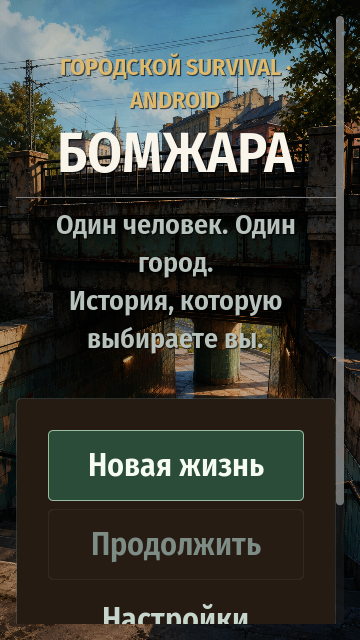
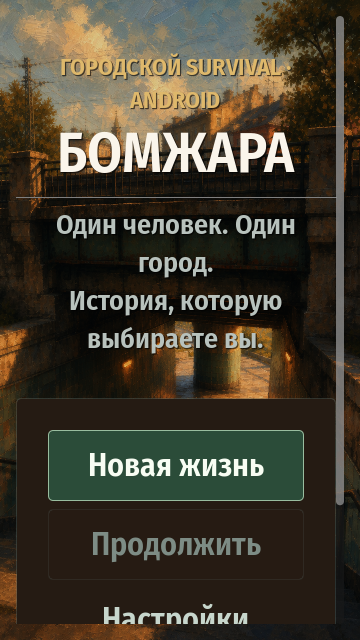
art: convert production environments to C2 style

diff --git a/docs/art_direction/ENVIRONMENT_STYLE.md b/docs/art_direction/ENVIRONMENT_STYLE.md
@@ -1,0 +1,81 @@
+# Производственный стандарт окружений C2
+
+Статус: **обязателен для всех новых и перерабатываемых игровых окружений**
+
+Обновлено: 26 июля 2026 года
+
+## 1. Художественный язык
+
+Базовый стиль окружений «Бомжары» — **C2: тёплая мягкая импрессионистическая живопись**. Это эстетичный законченный рисунок широкими живописными массами, а не фотография с blur-фильтром.
+
+- место узнаётся по камере, силуэту, свету, крупным объектам и цветовым массам примерно на ширине `120 px`;
+- кладка, провода, лица, листья, надписи и мелкий реквизит растворяются в мазках и не образуют высокочастотный шум;
+- края в основном мягкие, но крупные границы проходов, препятствий и важных ориентиров остаются различимыми;
+- освещённые поверхности и широкие отражения получают сдержанное медово-охристое тепло;
+- небо, даль и тени сохраняют прохладный серо-голубой противовес, зелень остаётся приглушённой;
+- естественные погода, время суток и тональная иерархия исходной локации сохраняются.
+
+Эталон материала: [вокзальная площадь C2](street_style_tests/station_square_c2_warm_impressionism.png). Эталон передаёт только мазок, мягкость, плотность деталей и температурный баланс. Его архитектура, транспорт, часы и композиция не переносятся в другие места.
+
+## 2. Что запрещено
+
+- фотореализм, HDR, sharpening, высокий микроконтраст и резкие контуры по всему кадру;
+- глобальная оранжевая заливка, сепия, жёлтое небо и обязательный эффект заката;
+- одинаковая температура, погода или экспозиция всех районов;
+- копирование объектов и композиции стилевого эталона;
+- новые крупные объекты или потеря ориентиров исходной локации без продуктовой причины;
+- читаемый текст, интерфейс, логотипы, флаги, товарные знаки и водяные знаки внутри растра;
+- современные объекты, не соответствующие эпохе и состоянию мира;
+- отдельные цветовые копии ради психики, погоды, времени суток или стадии мира.
+
+## 3. Композиция и игровые ограничения
+
+При style-transfer исходный production-фон является строгим источником камеры и содержания. Сохраняются перспектива, кадрирование, крупные ориентиры, открытые пространства, расположение объектов и идентичность места. Стилевой эталон влияет только на материал изображения.
+
+Для поисковых зон дополнительно обязательны:
+
+- исходная перспектива сверху под углом и геометрия уровня;
+- читаемость проходимого пола, стен, входов, препятствий и интерактивных силуэтов;
+- разделение этих областей крупными тональными границами, а не добавлением микродеталей;
+- отсутствие декоративного хлама, который можно принять за интерактивный объект или проход.
+
+Психика, время, погода и наблюдаемые изменения `WorldState` собираются в Godot поверх одного базового фона. Они не требуют повторной генерации той же сцены. UI, текст и смысловые пиктограммы находятся на отдельном резком слое и не получают живописный post-process.
+
+## 4. Размеры и исходники
+
+Текущий портретный master окружения — PNG `941×1672`. Поисковой двор сохраняет авторский landscape master `1649×954`, потому что его растр задаёт игровую геометрию. Изменять размеры при стилевом преобразовании запрещено; Android-варианты позднее экспортируются из master-файлов без перерисовки композиции.
+
+| Production-ассет | Назначение |
+|---|---|
+| `assets/backgrounds/riverside_underpass_day.png` | подземный переход |
+| `assets/backgrounds/riverside_market_day.png` | рынок |
+| `assets/backgrounds/riverside_station_square_day.png` | вокзальная площадь |
+| `assets/backgrounds/riverside_recycling_point_day.png` | пункт вторсырья |
+| `assets/backgrounds/riverside_clinic_yard_day.png` | двор поликлиники |
+| `assets/backgrounds/riverside_embankment_day.png` | набережная |
+| `assets/search/underpass_service_yard_v1.png` | игровая зона поиска |
+
+## 5. Производственный prompt
+
+Инструмент: встроенный `image_gen`, режим редактирования `style-transfer`. Для каждого нового места выполняется отдельная генерация с двумя референсами: `Image 1` — целевой фон и строгая композиция; `Image 2` — выбранный C2 и только стилевой эталон.
+
+Обязательная общая часть prompt:
+
+> Repaint the exact location from Image 1 in Image 2's soft warm impressionistic language. Image 1 is the strict composition and identity reference. Image 2 is style-only: do not copy its station, buses, clock, objects or layout. Create a production mobile-game environment with broad painterly masses, gentle atmospheric depth, diffuse edges and very low high-frequency detail; an aesthetically finished painting, not a blurred photo. Preserve Image 1 camera, perspective, major landmarks, open and walkable areas, object placement, local identity, weather and value hierarchy. Make the place recognizable at roughly 120 pixels wide; dissolve masonry, wires, faces, labels, clutter and small props into painterly marks. Use restrained honey-ochre and muted amber in lit surfaces and broad reflections, cool gray-blue in sky, distance and shadows, and muted natural greens. No global orange cast, sepia, yellow sky, oversaturation, line art, crisp contours, photorealism, HDR, sharpening, text, UI, logos, flags, trademarks, watermark, modern objects, new objects or missing major landmarks. Preserve the source dimensions and aspect ratio.
+
+После общей части добавляется краткий список обязательных ориентиров конкретной локации. Для поисковой зоны явно перечисляются все стены, входы, препятствия и опорные объекты игрового шаблона.
+
+## 6. Приёмка
+
+Каждый новый или переработанный фон принимается только после следующих проверок:
+
+1. Сравнение с исходником подтверждает ту же локацию, камеру и все крупные ориентиры.
+2. Просмотр на ширине около `120 px` сохраняет узнаваемость, но не показывает шумную микродеталь.
+3. Изображение остаётся живописным при увеличении и не выглядит просто размытой фотографией.
+4. Цветовой баланс содержит тёплый свет и прохладные тени без общей сепии.
+5. PNG валиден и имеет точные master-размеры.
+6. Фон проверен внутри UI на `360×640`, `540×960` и при масштабе текста `200%`.
+7. Психический фильтр изменяет окружение, но не снижает читаемость UI.
+8. Для поисковой зоны отдельно проверены пути, препятствия, точки взаимодействия и отсутствие ложных affordance.
+
+Сравнительные A/B/C/D-концепты и история выбора хранятся в [тесте художественного направления](street_style_tests/README.md); они не являются production-ассетами.

diff --git a/AGENTS.md b/AGENTS.md
@@ -8,9 +8,10 @@
 
 1. `docs/DEVELOPMENT_PLAN.md` — актуальный порядок реализации;
 2. `docs/UI_UX_STANDARD.md` — обязательный уровень интерфейса;
-3. `docs/SEARCH_AND_INVENTORY.md` — контракт поиска и предметов;
-4. `docs/ROADMAP.md` — продуктовые решения и долгосрочное направление;
-5. документы завершённых этапов, если изменение касается их контрактов.
+3. `docs/art_direction/ENVIRONMENT_STYLE.md` — обязательный художественный контракт окружений;
+4. `docs/SEARCH_AND_INVENTORY.md` — контракт поиска и предметов;
+5. `docs/ROADMAP.md` — продуктовые решения и долгосрочное направление;
+6. документы завершённых этапов, если изменение касается их контрактов.
 
 Порядок приоритета: последнее явное решение пользователя → `DEVELOPMENT_PLAN.md` для этапов и зависимостей → профильный стандарт механики/UI → `ROADMAP.md` для долгосрочного направления → документы завершённых этапов как историческое описание. При расхождении старого M2 с новым планом следует новому плану: сохранять проверенную доменную логику, но не старый событийный UX.
 
@@ -37,7 +38,7 @@
 - Психический фильтр применяется к окружению, но не ухудшает UI и читаемость.
 - Не генерировать несколько одинаковых изображений ради разной насыщенности, погоды или психики; использовать слои и шейдеры.
 - Фоны локаций должны быть эстетичными рисованными изображениями с очень низкой микродетализацией: крупные цветовые массы и мягкие края, читаемые примерно на ширине 120 px; фотографическая резкость и перешарп запрещены.
-- Зафиксированный материал фонов — мягкая импрессионистическая живопись: немного тёплого охристого света при прохладных серо-синих тенях, без сепии и глобальной оранжевой заливки.
+- Зафиксированный материал фонов — C2 по `docs/art_direction/ENVIRONMENT_STYLE.md`: мягкая импрессионистическая живопись, немного тёплого охристого света при прохладных серо-синих тенях, без сепии и глобальной оранжевой заливки.
 - Обычным событиям не создавать отдельные иллюстрации; они используют окружение текущего места.
 - Использовать одну авторскую монохромную SVG-систему пиктограмм, вдохновлённую городской навигацией и техническими инструкциями 1980-х; не смешивать emoji и готовые наборы, не заменять иконкой русскую подпись.
 - Каждый основной экран получает содержательный визуальный якорь. Слои наблюдаемого `WorldState` переиспользуют один базовый фон и не вычисляются самим UI.

diff --git a/assets/backgrounds/README.md b/assets/backgrounds/README.md
@@ -1,12 +1,12 @@
 # Фоны района «Приречье»
 
-Шесть базовых фонов M2 созданы встроенным генератором изображений с нуля, без входных референсов. Для каждой локации хранится ровно одно исходное изображение; депрессивность, потеря насыщенности и виньетка накладываются в Godot шейдером, поэтому визуальные дубликаты под разные состояния психики не нужны.
+Шесть базовых фонов созданы как отдельные композиции, а 26 июля 2026 года переведены в единый production-стиль **C2 — тёплая мягкая импрессионистическая живопись**. Для каждой локации хранится ровно одно исходное изображение; психика, погода, время и наблюдаемые изменения мира накладываются в Godot слоями и шейдерами, поэтому визуальные дубликаты не создаются.
 
-## Общая часть prompt set
+Обязательные палитра, детализация, prompt и визуальная приёмка описаны в [производственном стандарте окружений](../../docs/art_direction/ENVIRONMENT_STYLE.md). Сравнительные A/B/C/D-материалы не подключаются к игре.
 
-> Portrait 9:16 high-quality hand-painted stylized-realistic environment for a mobile text survival RPG. A fictional Eastern-European city around the 1970s, believable worn architecture and period details, bright clear daytime and natural colors suitable for later mood grading. Environment only, no protagonist close-up, no UI, no captions, no letters, no logos, no watermark. Leave calm readable areas for translucent game panels.
+## Production-набор
 
-К общей части поочерёдно добавлялись следующие сцены:
+Все шесть файлов — непрозрачные PNG `941×1672`:
 
 1. `riverside_underpass_day` — старый железнодорожный подземный переход, кафель, ржавый мост, лестницы, лавка и картон, солнечный выход.
 2. `riverside_market_day` — открытый продуктовый рынок, деревянные ящики, навесы, овощи и старая кирпичная рыночная постройка.
@@ -15,4 +15,4 @@
 5. `riverside_clinic_yard_day` — двор небольшой поликлиники, светлый фасад, деревья, лавка и велосипеды.
 6. `riverside_embankment_day` — каменная речная набережная, прогулочная дорожка, лодка, мост и город на другом берегу.
 
-Режим генерации: `imagegen`, новый растр; `referenced_image_paths` и `num_last_images_to_include` не использовались. Исходный размер каждого PNG — 941 × 1672.
+Исходные композиции создавались встроенным `image_gen` без референсов. Финальное преобразование выполнено тем же встроенным инструментом в режиме редактирования `style-transfer`: целевая локация использовалась как строгий композиционный референс, а [C2-вокзал](../../docs/art_direction/street_style_tests/station_square_c2_warm_impressionism.png) — только как эталон материала.

diff --git a/docs/DEVELOPMENT_PLAN.md b/docs/DEVELOPMENT_PLAN.md
@@ -1,6 +1,6 @@
 # «Бомжара» — исполнимый план разработки
 
-Версия: 0.6
+Версия: 0.7
 
 Обновлено: 26 июля 2026 года
 
@@ -22,6 +22,7 @@
 - **M3D.0 реализован:** введён версионированный `EventContext v1` для контекстных рисков поиска; он не расходует RNG, отделяет переносимые предметы от внешних и сохраняет будущие поля отношений, репутаций, истории и кулдаунов. Контракт описан в [M3D.0](M3D_EVENT_CONTEXT.md).
 - **M3D реализован, Android-приёмка ожидает G0:** действие «Искать полезное» открывает законченную поисковую зону с ходьбой, объектами, ценой решений, loot-tray, конфликтом вместимости и быстрым поиском. Зона привязана к своей локации, snapshot детерминирован, команды идемпотентны. Контракты и QA зафиксированы в [описании M3D](M3D_SEARCH.md).
 - **M3E реализован, Android-приёмка ожидает G0:** контекстный Event Director с трассировкой, валидатором, просмотрщиком, симулятором и банком из 40 карточек. Риск поиска вызывает настоящую отвечаемую встречу. Контракты и QA зафиксированы в [описании M3E](M3E_EVENTS.md).
+- **Визуальный baseline окружений обновлён:** выбран C2 — тёплая мягкая импрессионистическая живопись; в единый материал переведены шесть локаций и игровая зона поиска. Prompt, master-размеры и критерии приёмки закреплены в [производственном стандарте окружений](art_direction/ENVIRONMENT_STYLE.md).
 - **G0 остаётся открытым:** локально доступны Godot 4.7.1, export templates и JDK 21, но отсутствуют Android SDK/`adb` и физическое устройство. Обязательный device QA не выполнен.
 
 После завершения M3E приняты продуктовые решения, которые **ещё не реализованы в коде**: новая жизнь должна начинаться 1 сентября 1980 года в 08:00, деньги должны называться арденами и использовать собственный знак, а выборы должны сохраняемо менять `WorldState`. Текущие `1970` и знак реальной валюты в сборке являются известным разрывом и устраняются в M3F только вместе с версиями схемы, миграциями и тестами; существующим сохранениям календарь молча не подменяется.

diff --git a/docs/art_direction/street_style_tests/README.md b/docs/art_direction/street_style_tests/README.md
@@ -4,7 +4,7 @@
 
 Источник композиции: `assets/backgrounds/riverside_station_square_day.png`.
 
-Цель теста — выбрать художественный язык всех городских окружений. Эти изображения являются сравнительными концептами и пока не подключены к игре. Исходный рабочий фон не заменён.
+Цель теста — выбрать художественный язык всех городских окружений. Эти изображения остаются архивом сравнительных концептов; выбранный C2 уже перенесён в production-набор, а остальные варианты к игре не подключены.
 
 ## Общие ограничения
 
@@ -61,10 +61,10 @@
 
 Наиболее тёплая и фактурная версия. Даёт выраженную авторскую интонацию, но зерно пастели может спорить с некоторыми психическими и погодными фильтрами.
 
-## Следующая проверка
+## Результат
 
-Вариант C2 превращается в точный производственный стандарт: палитра, размер мазка, допустимая детализация, контраст, края, зерно и правила генерации. Затем в этом стандарте перерисовывается один контрастный фон — подземный переход. Только после проверки светлой площади и тёмного перехода стиль распространяется на остальные локации.
+C2 проверен на светлой площади, тёмном подземном переходе и изометрической игровой зоне поиска. После проверки в него переведены все семь текущих production-растров. Нормативные палитра, размер мазка, детализация, контраст, края, prompt и правила приёмки вынесены в [производственный стандарт окружений](../ENVIRONMENT_STYLE.md).
 
-Финальный targeted-edit prompt для C2:
+Targeted-edit prompt, которым был получен C2 из варианта C:
 
 > Make the selected soft impressionistic painting only slightly warmer. Add restrained honey-ochre and muted amber to the sunlit station stone and broad wet-paving reflections. Keep the sky, roof shadows and distant haze cool gray-blue; keep greens muted. Preserve composition, brightness, softness, abstraction and very low microdetail. Do not sharpen, change weather or time of day, add objects, create an orange wash, sepia or golden-hour sunset.

diff --git a/docs/SEARCH_AND_INVENTORY.md b/docs/SEARCH_AND_INVENTORY.md
@@ -2,7 +2,7 @@
 
 Статус: принятый продуктовый контракт
 
-Обновлено: 23 июля 2026 года
+Обновлено: 26 июля 2026 года
 
 ## 1. Поиск — мини-игра
 
@@ -53,6 +53,8 @@
 - Удачи и профильных навыков.
 
 Геометрия и художественная композиция остаются авторскими. Меняются разрешённые точки появления, состояния объектов, препятствия и содержимое; генератор не должен создавать бессмысленные или непроходимые сцены.
+
+Базовый растр зоны следует [производственному стандарту окружений C2](art_direction/ENVIRONMENT_STYLE.md), но его мягкость не отменяет игровой читаемости. Проходимый пол, стены, входы, препятствия и интерактивные силуэты разделяются крупными тональными массами; декоративная микродеталь не должна выглядеть как ложный объект или проход.
 
 При первом входе создаётся один сериализуемый snapshot зоны с версией шаблона, номером посещения и отдельным RNG-потоком. Последующие открытия UI читают этот snapshot и не выполняют новый бросок. Положение героя, состояние объектов, истощение и оставленные на земле предметы переживают сворачивание, перезапуск и возврат в локацию до явно определённого обновления зоны.
 

diff --git a/README.md b/README.md
@@ -29,6 +29,7 @@
 - [Живой продуктовый roadmap](docs/ROADMAP.md)
 - [Исполнимый план разработки](docs/DEVELOPMENT_PLAN.md)
 - [Обязательный UI/UX-стандарт](docs/UI_UX_STANDARD.md)
+- [Производственный стандарт окружений C2](docs/art_direction/ENVIRONMENT_STYLE.md)
 - [UI-бэклог: что известно и что предстоит](docs/UI_BACKLOG.md)
 - [Поисковая мини-игра и инвентарь](docs/SEARCH_AND_INVENTORY.md)
 - [Инструкции для ИИ-агентов](AGENTS.md)
@@ -42,7 +43,7 @@
 - [Движок контекстных событий M3E](docs/M3E_EVENTS.md)
 - [Android engineering baseline G0](docs/G0_ANDROID_BASELINE.md)
 - [Черновые UI-макеты](docs/mockups/README.md)
-- [Тест мягкого рисованного фона](docs/art_direction/street_style_tests/README.md)
+- [Архив выбора художественного стиля фона](docs/art_direction/street_style_tests/README.md)
 
 M1 принят как системная основа. M2 завершён как технический эксперимент и покрыт headless-тестами, но его событийный UX и монолитный UI не являются продуктовым образцом. M3A перевёл приложение на модульный `AppShell`, самостоятельные экраны и общий UI-контракт.
 
